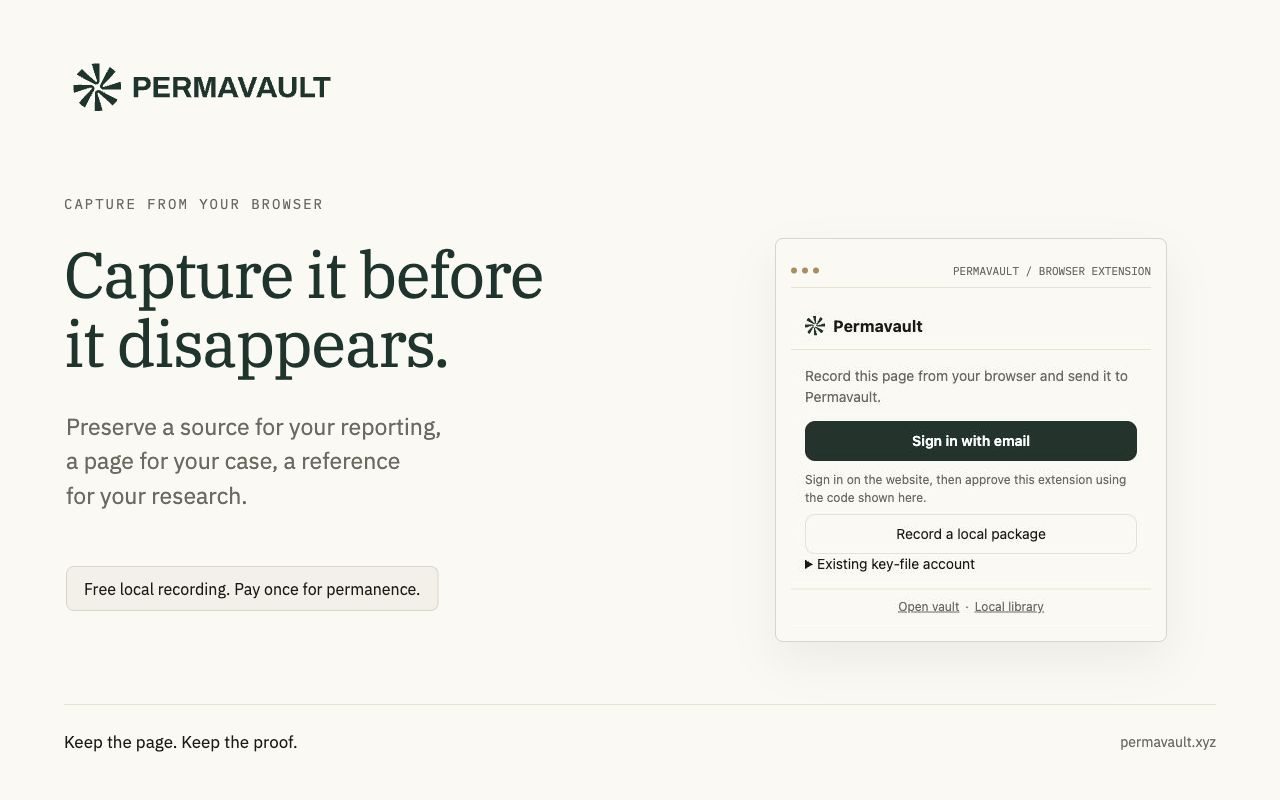
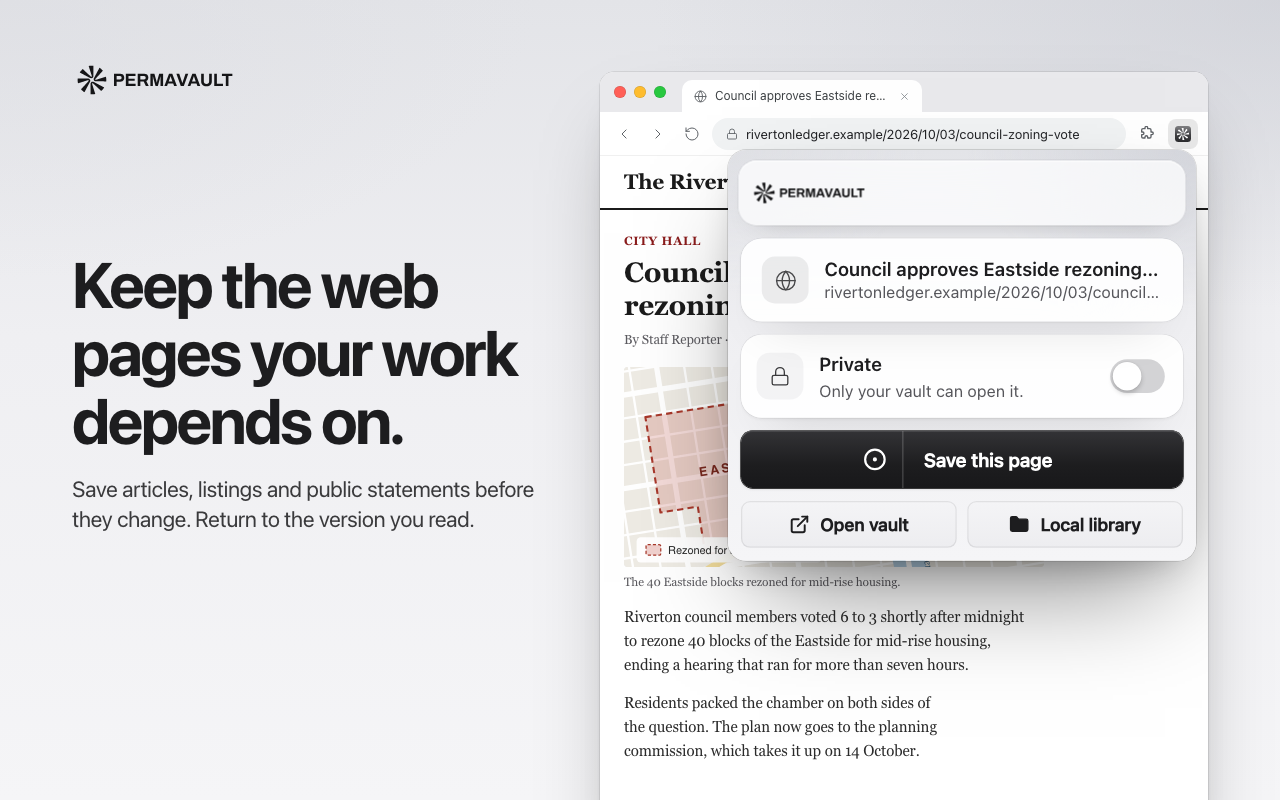
store: graphite Store images and decided listing name [PV-207]

diff --git a/store/SCREENSHOTS.md b/store/SCREENSHOTS.md
@@ -1,9 +1,20 @@
 # Store artwork
 
-Use the four PNGs in `screenshots/` in filename order. They are 1280×800 RGB images. `small-promo.png` is the required 440×280 RGB promotional tile. `icon.png` matches the production package icon.
+Upload in this order. Every file is RGB PNG at the exact size the Store asks for.
 
-The first two visuals frame the actual compiled v0.2.4 signed-out popup. Its rendering used inert local browser functions and empty account storage only to display the real component; no recording, payment or upload result was simulated. The remaining two visuals explain actual storage choices and pricing; they are illustrations, not fabricated software screens.
+| File | Size | Headline |
+|---|---|---|
+| `screenshots/01-capture.png` | 1280×800 | Keep the web pages your work depends on. |
+| `screenshots/02-proof.png` | 1280×800 | Share a saved copy others can check. |
+| `screenshots/03-process.png` | 1280×800 | From your browser to permanent storage. |
+| `screenshots/04-price.png` | 1280×800 | Free for 7 days. $0.99 to keep. |
+| `screenshots/05-private.png` | 1280×800 | Keep sensitive pages private. |
+| `small-promo.png` | 440×280 | Keep the web pages you rely on. |
+| `marquee.png` | 1400×560 | Keep the web pages your work depends on. |
+| `icon.png` | 128×128 (96 px artwork, transparent padding) | Store icon |
 
-Artwork uses the canonical Permavault vectors and Vault/Paper palette with IBM Plex fonts. Editable layouts and the source component capture are retained in the main project's private `internal/marketing/2026-10-13-store-refresh/` folder. Regenerate the product view whenever popup layout or content changes.
+The set uses the graphite redesign (chosen by Alex on 24 Oct 2026, PV-207). Its popup is the redesigned popup with the decided wording from PR #9, and screenshot 2 shows the redesigned web app. Alex chose to upload it before the extension and the app are restyled, accepting that the images show a look the installed extension does not have yet and that Google may reject the listing update for that reason. The store icon is the graphite icon; the package icon in `assets/` changes with the restyle.
+
+The sample page is fictional (The Riverton Ledger, `rivertonledger.example`). Editable sources: the main project's private `internal/design/row-P/` (`build_PF.py`), and the "Chrome Web Store" page of the Design canvas.
 
 These images do not replace installed-release acceptance tests. Submission, approval and public availability must be verified separately in the publisher console.

diff --git a/store/LISTING.md b/store/LISTING.md
@@ -4,11 +4,13 @@ Listing copy for the matching release. Check the exact extension package and web
 
 ## Name
 
-Permavault
+Permavault Archive: Save Web Pages
 
 ## Short description
 
-Capture pages before they change. Keep the page and its proof.
+Save web pages before they change. Pay once to keep the page and its capture record on permanent storage.
+
+The Store takes the name and short description from the package manifest (`name`, `description`), so these two lines change with the next package upload, not in the listing editor (decided 24 Oct 2026, PV-207).
 
 ## Detailed description
 
